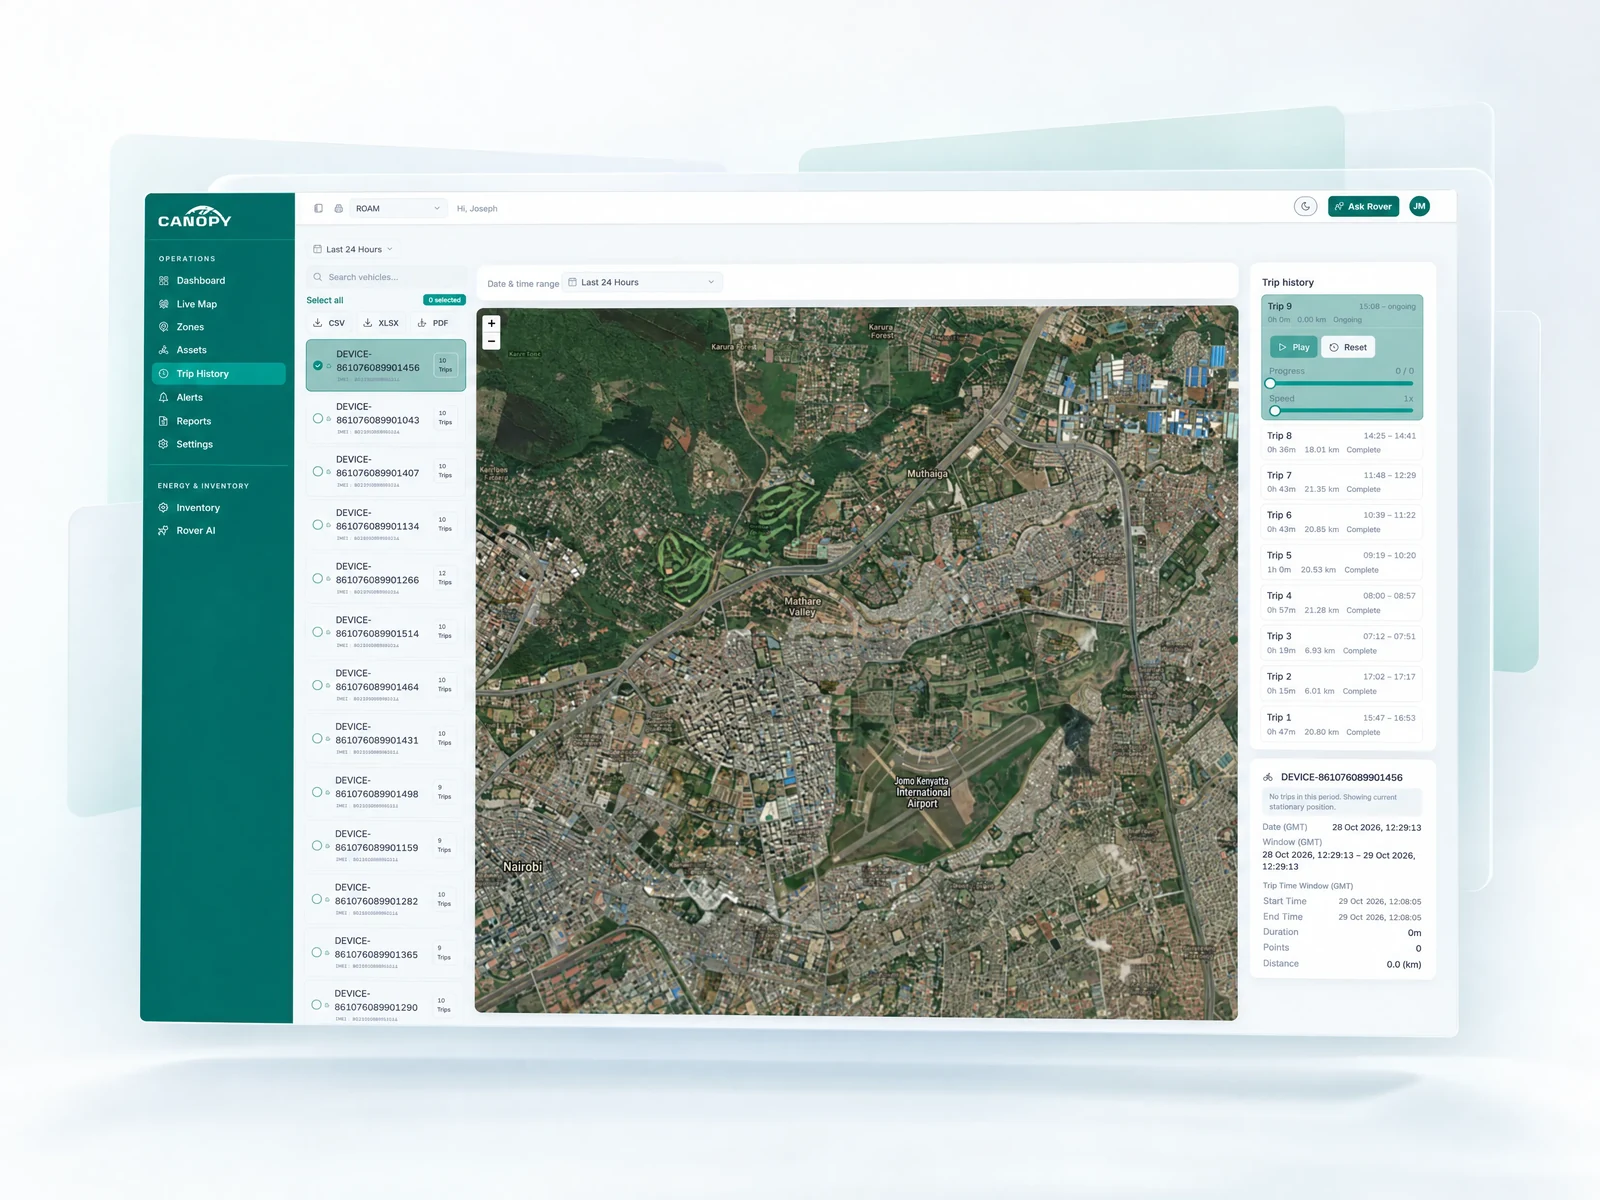
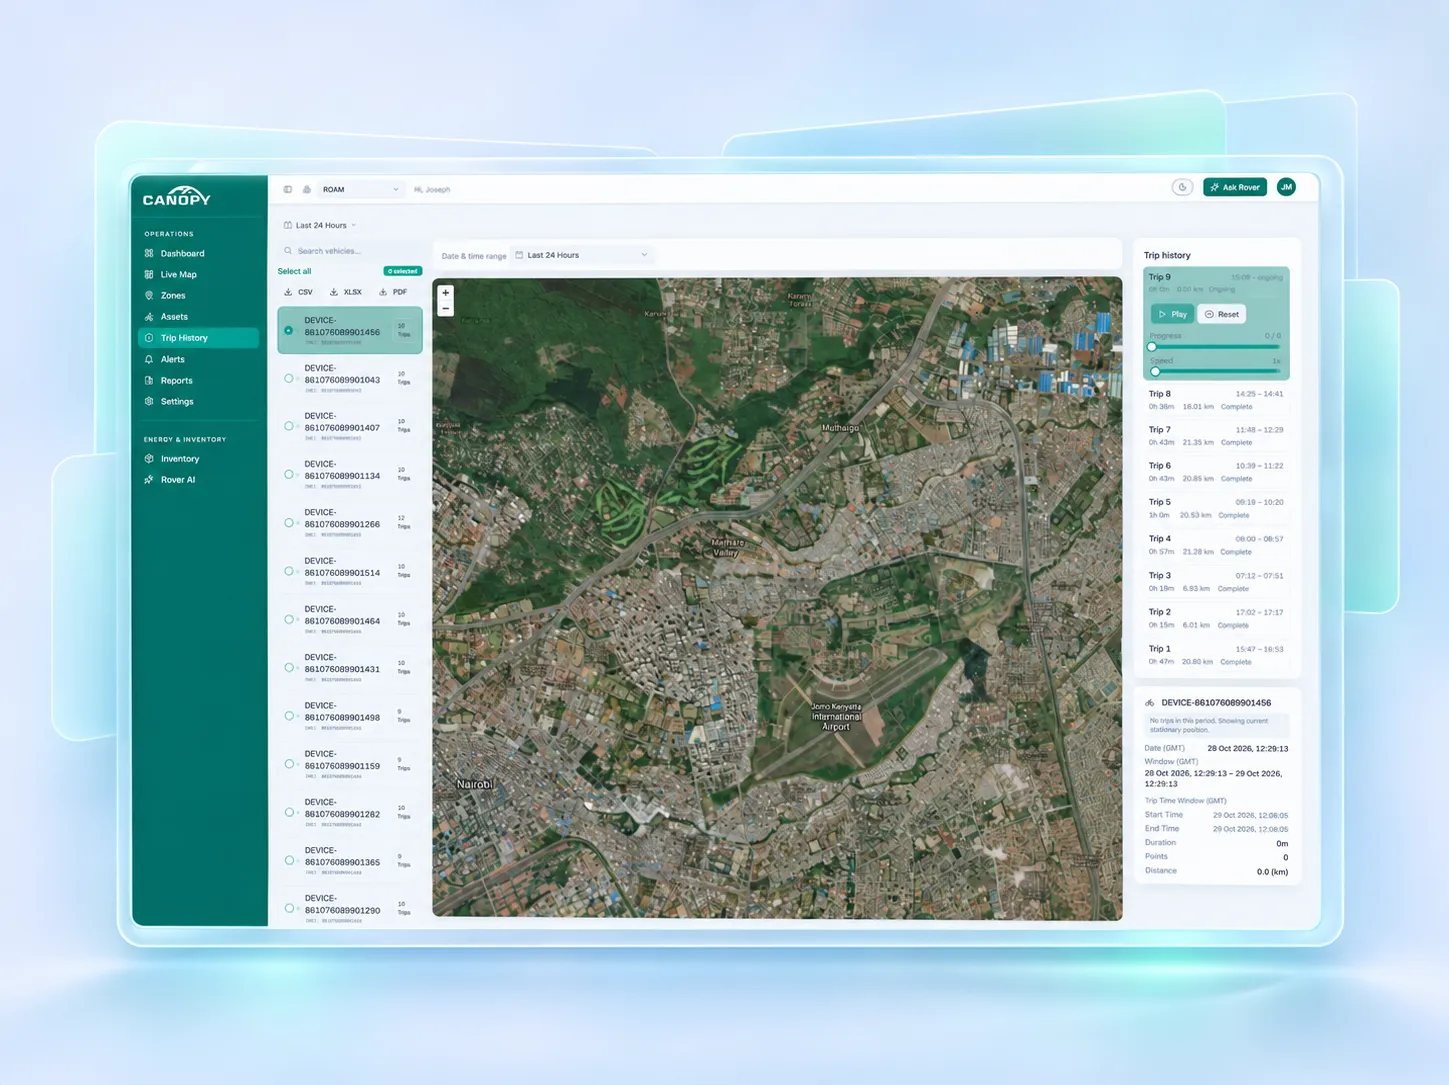
Features: new Trip history image; images sit on the tile's bottom edge
Claude-Session: https://claude.ai/code/session_019hg5JKm3Ajc1VUuZ1vD315

diff --git a/index.html b/index.html
@@ -449,6 +449,8 @@ p,h1,h2,h3,ul{margin:0}
 .ft-media > .default-pic{position:absolute;inset:0;display:block}
 .ft-media.has-upload > .default-pic{display:none}
 .ft-media.has-media > .ft-fb{display:none}
+/* images sit on the bottom edge of every tile, whatever the length of the text above */
+.ft-card > .ft-media{margin-top:auto}.ft-card > .ft-text{padding-bottom:clamp(4px,.8vw,12px)}
 .ft-fb{position:absolute;inset:0;background:radial-gradient(70% 70% at 50% 55%,#13292B 0%,#0B1A1C 72%)}
 .ft-fb svg{display:block;width:100%;height:100%;transform-origin:50% 60%;transition:transform 1.4s cubic-bezier(.2,.7,.2,1)}
 @media (hover:hover){.ft-card:hover .ft-media > .photo,.ft-card:hover .ft-media > .default-pic .photo,.ft-card:hover .ft-fb svg{transform:scale(1.035)}}
@@ -1610,7 +1612,7 @@ p,h1,h2,h3,ul{margin:0}
         </article>
         <article class="ft-card" style="--i:1">
           <div class="ft-text"><h3 class="ft-t" data-k="ft.2.t" data-l="Feature 2 title">Trip history</h3><p class="ft-d" data-k="ft.2.d" data-l="Feature 2 text">Replay journeys. Understand every route.</p></div>
-          <div class="ft-media has-media" data-slot="ft-trip" data-default-media="images/feat-trip-history.webp" data-slot-l="Trip history — image / video (4:3)" data-slot-hint="A Canopy screen showing trip history, 2400 × 1800 px (4:3). Videos loop muted." data-fit-option data-lazy data-slot-empty="Nothing uploaded yet. The site shows a simple teal line drawing until you add one."><picture class="default-pic"><img class="photo" src="images/feat-trip-history.webp" alt="Canopy trip history: a device list, a satellite map of Nairobi and a list of trips with play and reset controls" width="1600" height="1200" loading="lazy" decoding="async"></picture><div class="ft-fb" aria-hidden="true"><svg viewBox="0 0 400 300" preserveAspectRatio="xMidYMid slice"><g class="ft-grid" stroke="rgba(163,182,183,.07)" stroke-width="1"><path d="M0 50H400M0 100H400M0 150H400M0 200H400M0 250H400M50 0V300M100 0V300M150 0V300M200 0V300M250 0V300M300 0V300M350 0V300"/></g><path class="ft-route-bg" d="M64 222C96 222 104 160 146 156S198 206 238 196 262 110 300 104 338 84 344 70"/><path id="ft-route" class="ft-route" d="M64 222C96 222 104 160 146 156S198 206 238 196 262 110 300 104 338 84 344 70" pathLength="1"/><circle cx="64" cy="222" r="7" fill="none" stroke="#EAF2F1" stroke-width="2"/><circle cx="344" cy="70" r="6" fill="#14B8A6"/><circle class="ft-car" r="5" fill="#fff"><animateMotion dur="7s" repeatCount="indefinite" calcMode="spline" keyTimes="0;1" keySplines=".45 0 .55 1"><mpath href="#ft-route"/></animateMotion></circle><g class="ft-scrub"><rect x="64" y="262" width="280" height="3" rx="1.5" fill="rgba(163,182,183,.22)"/><rect class="ft-scrub-fill" x="64" y="262" width="280" height="3" rx="1.5" fill="#14B8A6"/></g></svg></div></div>
+          <div class="ft-media has-media" data-slot="ft-trip" data-default-media="images/feat-trip-history.webp" data-slot-l="Trip history — image / video (4:3)" data-slot-hint="A Canopy screen showing trip history, 2400 × 1800 px (4:3). Videos loop muted." data-fit-option data-lazy data-slot-empty="Nothing uploaded yet. The site shows a simple teal line drawing until you add one."><picture class="default-pic"><img class="photo" src="images/feat-trip-history.webp?v=2" alt="Canopy trip history: a device list, a satellite map of Nairobi and a list of trips with play and reset controls" width="1449" height="1085" loading="lazy" decoding="async"></picture><div class="ft-fb" aria-hidden="true"><svg viewBox="0 0 400 300" preserveAspectRatio="xMidYMid slice"><g class="ft-grid" stroke="rgba(163,182,183,.07)" stroke-width="1"><path d="M0 50H400M0 100H400M0 150H400M0 200H400M0 250H400M50 0V300M100 0V300M150 0V300M200 0V300M250 0V300M300 0V300M350 0V300"/></g><path class="ft-route-bg" d="M64 222C96 222 104 160 146 156S198 206 238 196 262 110 300 104 338 84 344 70"/><path id="ft-route" class="ft-route" d="M64 222C96 222 104 160 146 156S198 206 238 196 262 110 300 104 338 84 344 70" pathLength="1"/><circle cx="64" cy="222" r="7" fill="none" stroke="#EAF2F1" stroke-width="2"/><circle cx="344" cy="70" r="6" fill="#14B8A6"/><circle class="ft-car" r="5" fill="#fff"><animateMotion dur="7s" repeatCount="indefinite" calcMode="spline" keyTimes="0;1" keySplines=".45 0 .55 1"><mpath href="#ft-route"/></animateMotion></circle><g class="ft-scrub"><rect x="64" y="262" width="280" height="3" rx="1.5" fill="rgba(163,182,183,.22)"/><rect class="ft-scrub-fill" x="64" y="262" width="280" height="3" rx="1.5" fill="#14B8A6"/></g></svg></div></div>
         </article>
         <article class="ft-card" style="--i:2">
           <div class="ft-text"><h3 class="ft-t" data-k="ft.3.t" data-l="Feature 3 title">Device health</h3><p class="ft-d" data-k="ft.3.d" data-l="Feature 3 text">See connectivity and device status at a glance.</p></div>
